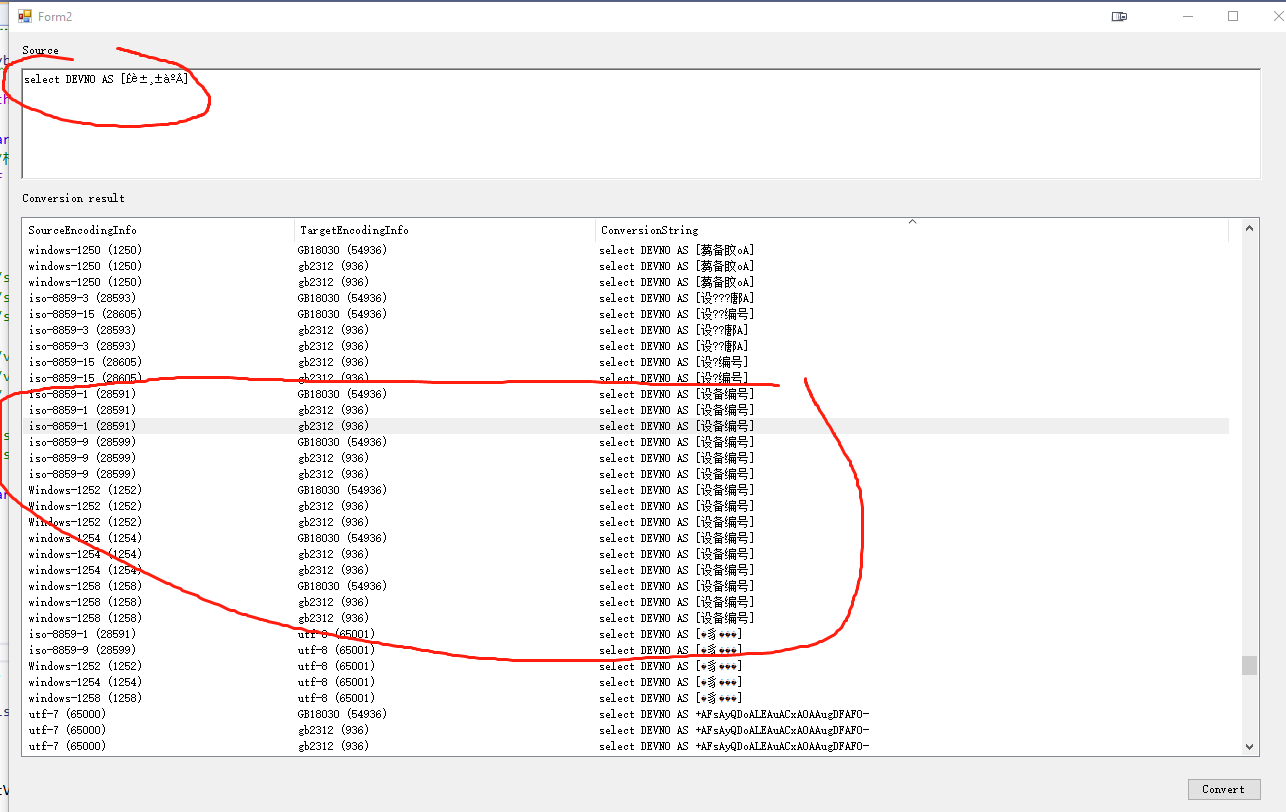
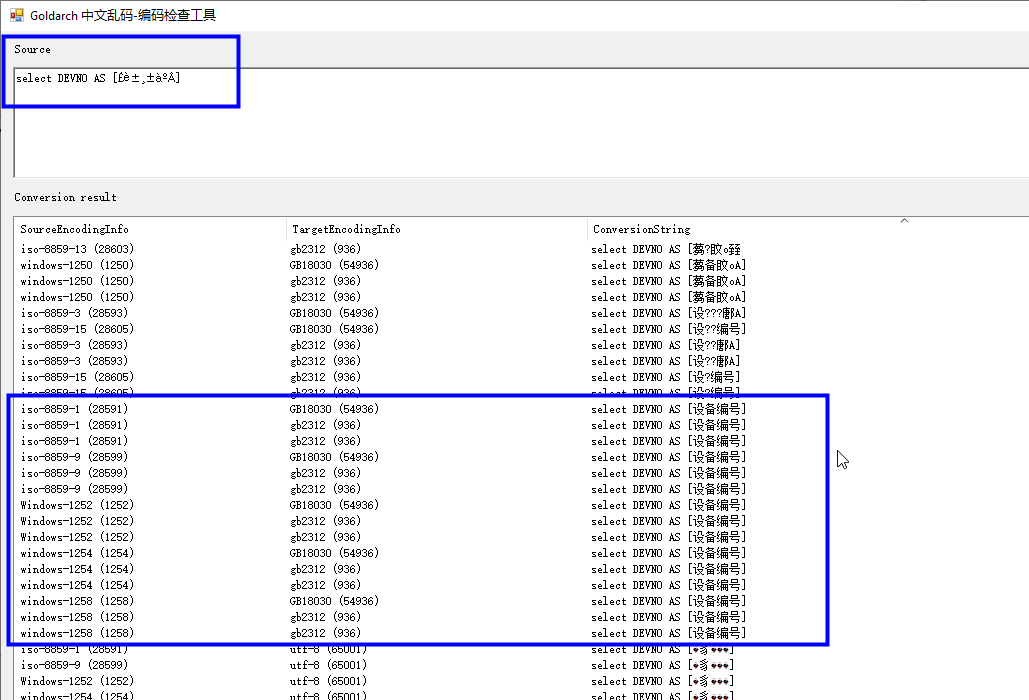
add img

diff --git a/GarbledCheck/Form2.Designer.cs b/GarbledCheck/Form2.Designer.cs
@@ -32,11 +32,11 @@ namespace GarbledCheck
             this.richTextBox1 = new System.Windows.Forms.RichTextBox();
             this.label1 = new System.Windows.Forms.Label();
             this.objectListView1 = new BrightIdeasSoftware.ObjectListView();
-            this.label2 = new System.Windows.Forms.Label();
-            this.button1 = new System.Windows.Forms.Button();
             this.olvColumn1 = ((BrightIdeasSoftware.OLVColumn)(new BrightIdeasSoftware.OLVColumn()));
             this.olvColumn2 = ((BrightIdeasSoftware.OLVColumn)(new BrightIdeasSoftware.OLVColumn()));
             this.olvColumn3 = ((BrightIdeasSoftware.OLVColumn)(new BrightIdeasSoftware.OLVColumn()));
+            this.label2 = new System.Windows.Forms.Label();
+            this.button1 = new System.Windows.Forms.Button();
             ((System.ComponentModel.ISupportInitialize)(this.objectListView1)).BeginInit();
             this.SuspendLayout();
             // 
@@ -82,6 +82,24 @@ namespace GarbledCheck
             this.objectListView1.UseCompatibleStateImageBehavior = false;
             this.objectListView1.View = System.Windows.Forms.View.Details;
             // 
+            // olvColumn1
+            // 
+            this.olvColumn1.AspectName = "SourceEncodingInfo";
+            this.olvColumn1.Text = "SourceEncodingInfo";
+            this.olvColumn1.Width = 272;
+            // 
+            // olvColumn2
+            // 
+            this.olvColumn2.AspectName = "TargetEncodingInfo";
+            this.olvColumn2.Text = "TargetEncodingInfo";
+            this.olvColumn2.Width = 301;
+            // 
+            // olvColumn3
+            // 
+            this.olvColumn3.AspectName = "ConversionString";
+            this.olvColumn3.Text = "ConversionString";
+            this.olvColumn3.Width = 633;
+            // 
             // label2
             // 
             this.label2.AutoSize = true;
@@ -101,24 +119,6 @@ namespace GarbledCheck
             this.button1.UseVisualStyleBackColor = true;
             this.button1.Click += new System.EventHandler(this.button1_Click);
             // 
-            // olvColumn1
-            // 
-            this.olvColumn1.AspectName = "SourceEncodingInfo";
-            this.olvColumn1.Text = "SourceEncodingInfo";
-            this.olvColumn1.Width = 272;
-            // 
-            // olvColumn2
-            // 
-            this.olvColumn2.AspectName = "TargetEncodingInfo";
-            this.olvColumn2.Text = "TargetEncodingInfo";
-            this.olvColumn2.Width = 301;
-            // 
-            // olvColumn3
-            // 
-            this.olvColumn3.AspectName = "ConversionString";
-            this.olvColumn3.Text = "ConversionString";
-            this.olvColumn3.Width = 633;
-            // 
             // Form2
             // 
             this.AutoScaleDimensions = new System.Drawing.SizeF(6F, 12F);
@@ -130,7 +130,7 @@ namespace GarbledCheck
             this.Controls.Add(this.label1);
             this.Controls.Add(this.richTextBox1);
             this.Name = "Form2";
-            this.Text = "Form2";
+            this.Text = "Goldarch 中文乱码-编码检查工具";
             ((System.ComponentModel.ISupportInitialize)(this.objectListView1)).EndInit();
             this.ResumeLayout(false);
             this.PerformLayout();
